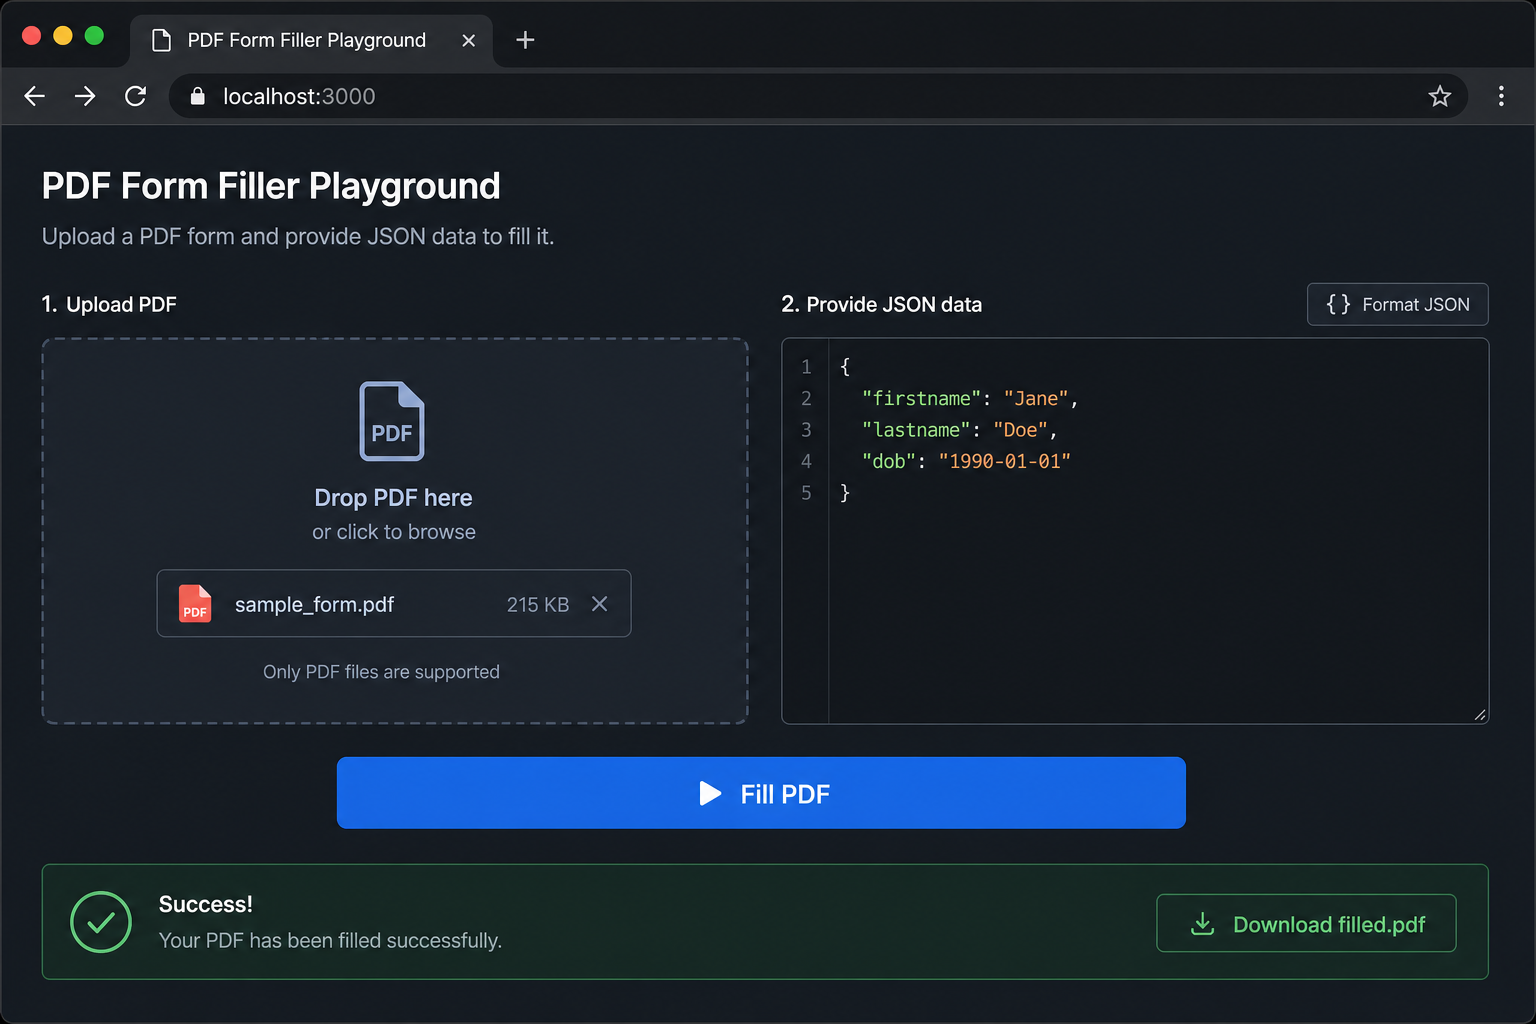
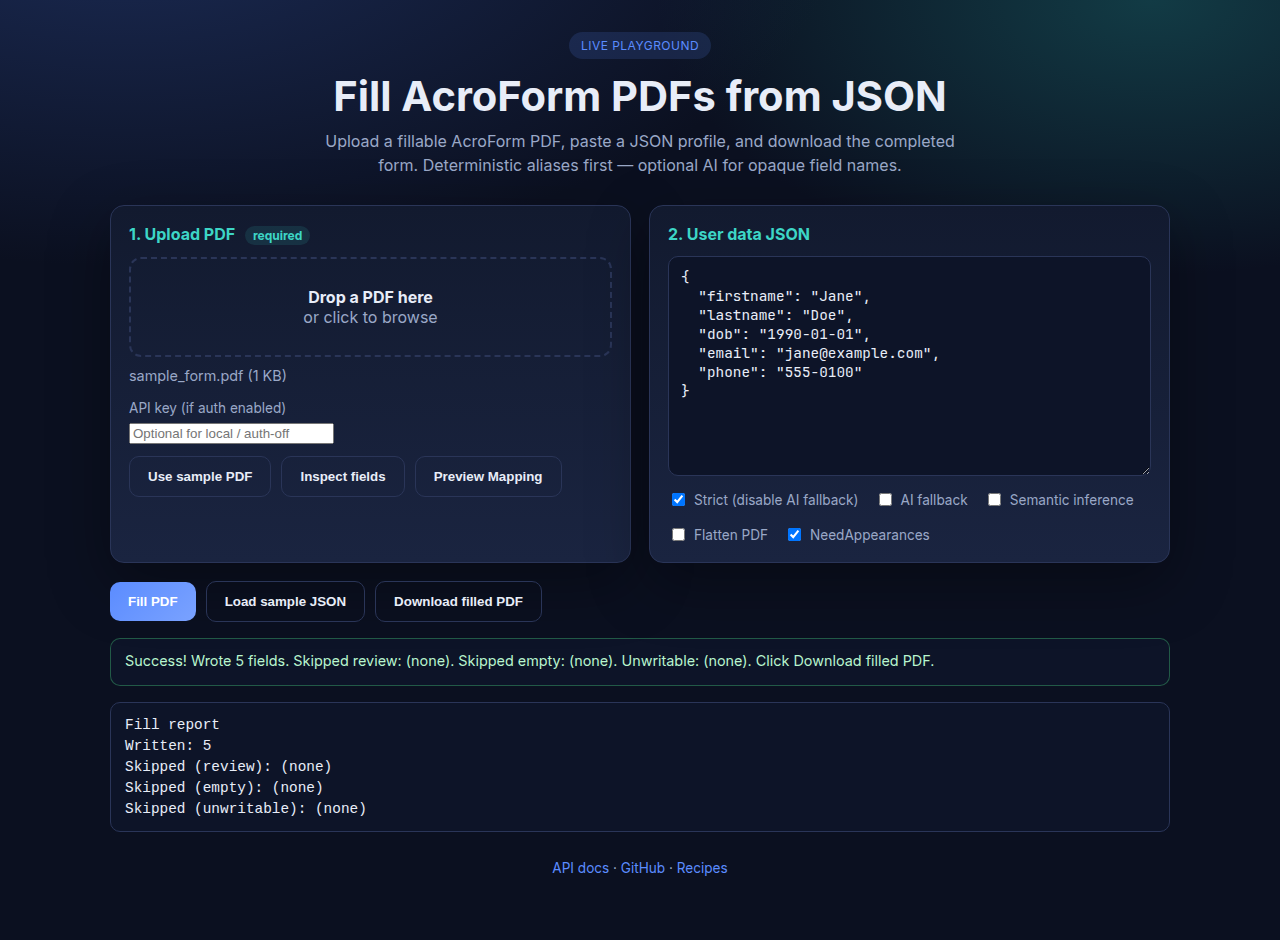
Polish the v0.6.3 release
Refresh demo assets, soften marketing claims, align version and changelog,
and tighten security reporting plus issue-template hygiene.

diff --git a/src/pdf_autofiller/static/playground.html b/src/pdf_autofiller/static/playground.html
@@ -119,10 +119,10 @@
   <div class="wrap">
     <header>
       <div class="badge">Live Playground</div>
-      <h1>Fill any PDF from JSON</h1>
+      <h1>Fill AcroForm PDFs from JSON</h1>
       <p class="subtitle">
-        Upload a fillable AcroForm PDF, paste your profile JSON, and download the completed form in seconds.
-        No field mapping required.
+        Upload a fillable AcroForm PDF, paste a JSON profile, and download the completed form.
+        Deterministic aliases first — optional AI for opaque field names.
       </p>
     </header>
 
@@ -136,7 +136,7 @@
         <p id="fileName" style="margin:10px 0 0; color: var(--muted); font-size:0.9rem;">No file selected</p>
 
         <label for="apiKey" style="margin-top:16px;">API key (if auth enabled)</label>
-        <input id="apiKey" type="password" autocomplete="off" placeholder="Optional — leave blank for local dev" />
+        <input id="apiKey" type="password" autocomplete="off" placeholder="Optional for local / auth-off" />
         <div class="row" style="margin-top:12px;">
           <button id="loadSamplePdfBtn" class="ghost" type="button">Use sample PDF</button>
           <button id="inspectBtn" class="ghost" type="button">Inspect fields</button>

diff --git a/scripts/capture_playground_preview.py b/scripts/capture_playground_preview.py
@@ -1,0 +1,28 @@
+"""Capture playground screenshot for README docs/assets."""
+
+from pathlib import Path
+
+from playwright.sync_api import sync_playwright
+
+OUT = Path("docs/assets/playground-preview.png")
+URL = "http://127.0.0.1:8000/playground"
+
+
+def main() -> None:
+    with sync_playwright() as p:
+        browser = p.chromium.launch(headless=True)
+        page = browser.new_page(viewport={"width": 1280, "height": 900})
+        page.goto(URL, wait_until="networkidle")
+        page.click("#loadSamplePdfBtn")
+        page.wait_for_timeout(800)
+        page.click("#fillBtn")
+        page.wait_for_selector("#download", state="visible", timeout=20000)
+        page.wait_for_timeout(500)
+        OUT.parent.mkdir(parents=True, exist_ok=True)
+        page.screenshot(path=str(OUT), full_page=True)
+        browser.close()
+    print(f"Wrote {OUT} ({OUT.stat().st_size} bytes)")
+
+
+if __name__ == "__main__":
+    main()

diff --git a/tests/test_playground.py b/tests/test_playground.py
@@ -17,7 +17,7 @@ def test_playground_page_renders_html():
     response = client.get("/playground")
     assert response.status_code == 200
     assert "text/html" in response.headers["content-type"]
-    assert "Fill any PDF from JSON" in response.text
+    assert "Fill AcroForm PDFs from JSON" in response.text
     assert 'id="fillBtn"' in response.text
     assert 'id="loadSamplePdfBtn"' in response.text
     assert 'id="inspectBtn"' in response.text

diff --git a/src/pdf_autofiller/__init__.py b/src/pdf_autofiller/__init__.py
@@ -6,7 +6,7 @@ Public surface:
 - ``PDFAutofillerClient`` — optional HTTP client for a running API
 """
 
-__version__ = "0.6.2"
+__version__ = "0.6.3"
 
 from .client import PDFAutofillerClient, PDFAutofillError
 from .pipeline import fill, fill_detailed, inspect, preview, run_fill_pipeline

diff --git a/README.md b/README.md
@@ -12,15 +12,13 @@ Open-source FastAPI service · browser playground · Python SDK · Docker image
 [![Release](https://img.shields.io/github/v/release/lindseystead/ai-pdf-autofiller?label=release)](https://github.com/lindseystead/ai-pdf-autofiller/releases)
 [![GitHub stars](https://img.shields.io/github/stars/lindseystead/ai-pdf-autofiller?style=social)](https://github.com/lindseystead/ai-pdf-autofiller/stargazers)
 [![Python 3.11+](https://img.shields.io/badge/python-3.11%20%7C%203.12-blue.svg)](https://www.python.org/downloads/)
-[![Coverage](https://img.shields.io/badge/coverage-%E2%89%A585%25-brightgreen.svg)](https://github.com/lindseystead/ai-pdf-autofiller)
+[![Coverage](https://img.shields.io/badge/coverage-%E2%89%A585%25-brightgreen.svg)](docs/TESTING.md)
 [![License: MIT](https://img.shields.io/badge/License-MIT-yellow.svg)](LICENSE)
 [![Docker](https://img.shields.io/badge/docker-ghcr.io-blue)](https://github.com/lindseystead/ai-pdf-autofiller/pkgs/container/ai-pdf-autofiller)
 
-[Try in Codespaces](#try-it-now) · [Install](#install) · [API](#api) · [FAQ](docs/FAQ.md) · [Recipes](recipes/) · [Docs](docs/)
+[Try in Codespaces](#try-it-now) · [Install](#install) · [Demo transcript](docs/assets/demo-terminal.txt) · [API](#api) · [FAQ](docs/FAQ.md) · [Recipes](recipes/) · [Docs](docs/)
 
 [![Open in GitHub Codespaces](https://github.com/codespaces/badge.svg)](https://codespaces.new/lindseystead/ai-pdf-autofiller)
-
-**Keywords:** `pdf` · `acroform` · `form-filling` · `fastapi` · `python` · `automation` · `api` · `docker` · `document-processing` · `govtech` · `w9` · `self-hosted`
 
 </div>
 
@@ -28,13 +26,13 @@ Open-source FastAPI service · browser playground · Python SDK · Docker image
 
 ## What it does
 
-Turn `{"firstname":"Jane","lastname":"Doe"}` into a filled PDF — even when the form uses `txtFirstName`, `given_name`, or other common synonyms. Opaque names like `field_12` use optional AI.
+Turn `{"firstname":"Jane","lastname":"Doe"}` into a filled PDF — even when the form uses `txtFirstName`, `given_name`, or other common synonyms. Opaque names like `field_12` use optional AI (off by default); `/inspect` flags them.
 
 | Input | Output |
 |-------|--------|
-| Any fillable AcroForm PDF | Completed PDF with fields written |
-| JSON user profile | Mapped automatically via aliases + normalization |
-| Optional AI (off by default) | Semantic inference for opaque field names (`/inspect` flags them) |
+| Fillable AcroForm PDF | Completed PDF with fields written |
+| JSON user profile | Mapped via aliases + normalization |
+| Optional AI (off by default) | Semantic inference for opaque field names |
 
 **Popular uses:** HR onboarding packets · insurance intake · workflow automation (n8n, Zapier, curl) · W-9-**shaped** AcroForms (synthetic fixtures in CI — not IRS-certified)
 
@@ -65,6 +63,13 @@ pip install -e .
 python3 -c 'from pdf_autofiller import fill; fill("samples/sample_form.pdf", {"firstname":"Jane","lastname":"Doe","dob":"1990-01-01"}, "filled.pdf")'
 ```
 
+<details>
+<summary>Demo transcript (curl inspect → preview → fill)</summary>
+
+See the captured output in [`docs/assets/demo-terminal.txt`](docs/assets/demo-terminal.txt). Regenerate with `scripts/capture_demo_transcript.sh` while the API is running.
+
+</details>
+
 ## Install
 
 | Method | Command |
@@ -72,9 +77,8 @@ python3 -c 'from pdf_autofiller import fill; fill("samples/sample_form.pdf", {"f
 | **Docker Compose** | `docker compose up --build` |
 | **Docker** | `docker run -p 8000:8000 -e API_AUTH_ENABLED=false ghcr.io/lindseystead/ai-pdf-autofiller:latest` |
 | **From source** | `git clone https://github.com/lindseystead/ai-pdf-autofiller.git && cd ai-pdf-autofiller && pip install -r requirements-dev.txt && API_AUTH_ENABLED=false make run-api` |
-| **GitHub Release wheel** | `make install-release` — supported install without PyPI ([Releases](https://github.com/lindseystead/ai-pdf-autofiller/releases)) |
+| **GitHub Release wheel** | `make install-release` — install from [Releases](https://github.com/lindseystead/ai-pdf-autofiller/releases) without PyPI |
 | **Library (editable)** | `pip install -e .` then `from pdf_autofiller import fill` |
-| **PyPI** | Deferred — `pip install pdf-autofiller` is not live yet. Workflow is ready (OIDC / `environment: pypi`) but manual until a one-time [Trusted Publisher](https://pypi.org/manage/account/publishing/) is added. See [docs/RELEASE.md](docs/RELEASE.md). |
 
 ```python
 from pdf_autofiller import fill
@@ -91,6 +95,8 @@ from pdf_autofiller import PDFAutofillerClient
 client = PDFAutofillerClient("http://localhost:8000", api_key="…")
 client.fill_to_file("form.pdf", {"firstname": "Jane"}, "filled.pdf")
 ```
+
+> PyPI (`pip install pdf-autofiller`) is not published yet. Release wheels and Docker cover install today; see [docs/RELEASE.md](docs/RELEASE.md) if you want to enable Trusted Publishing later.
 
 ## API
 
@@ -158,10 +164,11 @@ flowchart LR
 |-----|----------|
 | [docs/FAQ.md](docs/FAQ.md) | vs SaaS, AcroForm vs scan, auth, local vs HTTP |
 | [docs/API.md](docs/API.md) | Endpoints and errors |
-| [docs/RELEASE.md](docs/RELEASE.md) | Tag → GHCR / Release assets (PyPI optional) |
 | [docs/OPERATIONS.md](docs/OPERATIONS.md) | Config and deployment |
+| [SECURITY.md](SECURITY.md) | Reporting, auth, rate limits, data handling |
 | [docs/TESTING.md](docs/TESTING.md) | Tests and CI |
 | [docs/ARCHITECTURE.md](docs/ARCHITECTURE.md) | Module boundaries |
+| [docs/RELEASE.md](docs/RELEASE.md) | Tag → GHCR / Release assets |
 | [docs/integrations/](docs/integrations/) | n8n, Zapier, LangChain |
 | [samples/README.md](samples/README.md) | Corpus fixtures |
 | [CONTRIBUTING.md](CONTRIBUTING.md) | How to contribute |

diff --git a/CONTRIBUTING.md b/CONTRIBUTING.md
@@ -36,7 +36,14 @@ The helper targets in `Makefile` are the supported shortcuts for common local wo
 
 ## Pull Requests
 
-- Describe the problem being solved and the behavioral change.
+- Prefer **one focused commit per PR** (or squash before merge). This repo uses
+  **squash merges** onto `main` so history stays linear.
+- Write commit subjects in the imperative mood, ≤72 characters when possible
+  (example: `Polish recruiter packaging for v0.6.3`).
+- Put context in the body: what changed and why — not WIP notes, “fix typo”,
+  or accidental artifact cleanups. Those belong in a rewritten local history
+  before you push, not in the final squash message.
+- Describe the problem being solved and the behavioral change in the PR body.
 - Call out any API contract changes, security implications, or deployment impact.
 - Include the validation commands you ran locally.
 - Update `CHANGELOG.md` when the change materially affects behavior, docs, or operations.

diff --git a/SECURITY.md b/SECURITY.md
@@ -7,12 +7,13 @@ Security fixes are applied to the latest code only.
 
 ## Reporting a Vulnerability
 
-If you discover a security issue, please do not open a public issue.
+Do **not** open a public issue for security reports.
 
-1. Email the maintainer at `wysel17@mytru.ca`.
-2. Include a clear description of the issue, reproduction steps or proof of concept, and an impact assessment.
-3. Expect an initial response within 5 business days.
-4. Allow a reasonable remediation window before public disclosure.
+Use [GitHub Private Vulnerability Reporting](https://github.com/lindseystead/ai-pdf-autofiller/security/advisories/new):
+
+1. Open a private advisory with a clear description, reproduction steps or proof of concept, and an impact assessment.
+2. Expect an initial response within 5 business days.
+3. Allow a reasonable remediation window before public disclosure.
 
 ## Security Baseline
 

diff --git a/CHANGELOG.md b/CHANGELOG.md
@@ -4,6 +4,8 @@ All notable changes to this project will be documented in this file.
 
 ## [Unreleased]
 
+## [0.6.3]
+
 ### Added
 
 - `/inspect` and `/preview` surface opaque widget-name detection (`name_quality`,
@@ -25,6 +27,12 @@ All notable changes to this project will be documented in this file.
   without AI — matching the intended coerce behavior
 - Doc accuracy: provider-key wording, `FORM_ALIASES_DIR` fallback, unwritable
   reasons, choice-field rules, test count, health version example
+
+### Changed
+
+- Recruiter-facing polish: softened “any PDF” claims, refreshed playground
+  screenshot and social banner, aligned version metadata, issue templates as
+  `.md`, security reports via GitHub advisories only
 
 ## [0.6.2]
 

diff --git a/docs/README.md b/docs/README.md
@@ -31,6 +31,13 @@ Supporting documentation for the PDF Autofiller service. Claims in these docs ma
 
 Static site: [docs/site/](site/). Source images live in [assets/](assets/).
 
+**GitHub Pages:** enable Settings → Pages → Source = **GitHub Actions**, then the
+`Deploy GitHub Pages` workflow publishes `docs/site/`. Until then, leave the
+repo homepage blank (a 404 hurts recruiter first impressions).
+
+**Social preview:** upload `docs/assets/social-preview.png` under Settings →
+General → Social preview.
+
 To update GitHub **description** and **topics** (search visibility on GitHub):
 
 ```bash

diff --git a/docs/API.md b/docs/API.md
@@ -28,7 +28,7 @@ Example response:
 {
   "status": "ok",
   "service": "pdf-autofiller",
-  "version": "0.6.2",
+  "version": "0.6.3",
   "checks": {
     "auth": "disabled",
     "semantic_provider": "unconfigured",
